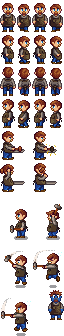
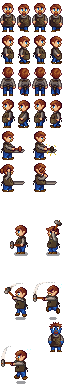
3.1.5: fix Clint activity frames clipping head and legs

diff --git a/pets/stardew-species.ts b/pets/stardew-species.ts
@@ -331,7 +331,8 @@ const npcAnimations: StardewSpeciesDefinition["animations"] = {
 // 特殊帧型（StardewAnimation 的对应字段）：
 // - span {w:2}：横向 32 宽组合帧（Clint 打铁、Elliott 钓鱼竿），人物默认在左格，
 //   在右格时设 anchorX:1；拆开单格会只剩砧板碎片/竿尖。
-// - span {h:2}：竖向 64 高组合帧（Pam 拖把、Dick/Willy 钓鱼线），人物在上格。
+// - span {h:2}：竖向 64 高组合帧（Pam 拖把、Dick/Willy 钓鱼线），人物默认在上格，
+//   在下格时设 anchorY:1（Clint 打铁的高帧动作）。
 // - 往返/跨行序列用显式帧列表表达（如 Alex 举重 r7c2→r7c3→r8c0→r7c3）。
 // - transitionOut: "reverse"：离开该动画时倒放一遍再切换（如下蹲后起身）。
 // - travel：侧向移动联动行，行走时随机替代普通走姿（仅水平移动）。
@@ -362,13 +363,13 @@ const NPC_EXTRA_ANIMATIONS: Record<string, StardewSpeciesDefinition["animations"
 		activity: A([[0, 4], [0, 4], [1, 4], [1, 4], [0, 4], [0, 4], [2, 4], [2, 4]], 3),
 	}, // r4c0-2 原地健身(背→右→背→左, 每拍重复2帧, 与原版 caroline_exercise 一致)；无坐姿行
 	Clint: {
-		gesture: A([[3, 9]], 3, { loop: false }),
+		gesture: A([[3, 10]], 3, { loop: false }),
 		activity: [
 			A([[0, 4], [2, 4]], 2, { span: { w: 2, h: 1 } }),
-			A([[0, 8], [2, 8], [0, 9]], 2, { span: { w: 2, h: 1, anchorX: 1 } }),
+			A([[0, 8], [2, 8], [0, 10]], 2, { span: { w: 2, h: 2, anchorX: 1, anchorY: 1 } }),
 			A([[0, 5], [2, 5]], 2, { span: { w: 2, h: 1 } }),
 		],
-	}, // r9c3 单帧正面震惊(灰脸)；打铁全是 32 宽组合帧：r4 敲砧(砧板在右格, c0-1/c2-3 两帧)；r8c0→r8c2→r9c0 抡锤上举→挥下→下砸(人物均在右格)；r5 查看铁条；r6-7 为两组 32x64 四格组合, 当前 span 无法完整表达, 弃用
+	}, // r10c3 单帧正面震惊(灰脸)；打铁全是 32 宽组合帧：r4 敲砧(砧板在右格, c0-1/c2-3 两帧)；r8c0→r8c2→r10c0 抡锤上举→挥下→下砸(人物均在右格, 动作帧为 48px 高, 已补回 16px 空行对齐两格)；r5 查看铁条；r6-7 为另一组组合帧(已对齐, 未启用)
 	Dick: {
 		activity: [
 			A([[0, 4], [1, 4], [2, 4], [3, 4]], 2, { span: { w: 1, h: 2 } }),

diff --git a/scripts/export-animations.py b/scripts/export-animations.py
@@ -196,9 +196,10 @@ def main() -> int:
                     region, _, _ = render_frame(img, c, r, fh, span)
                     canvas = checker(cw, chh)
                     canvas.paste(region, (ox, oy), region)
-                    # anchor-cell crosshair marker
+                    # anchor-cell crosshair marker: the anchor cell always lands
+                    # at (FRAME_W, fh) regardless of anchorX/anchorY.
                     cd = ImageDraw.Draw(canvas)
-                    cd.rectangle([ox, oy, ox + FRAME_W - 1, oy + fh - 1],
+                    cd.rectangle([FRAME_W, fh, FRAME_W + FRAME_W - 1, fh + fh - 1],
                                  outline=(255, 80, 80, 255))
                     big = canvas.resize((cw * SCALE, chh * SCALE), Image.NEAREST)
                     gif_frames.append(big)
